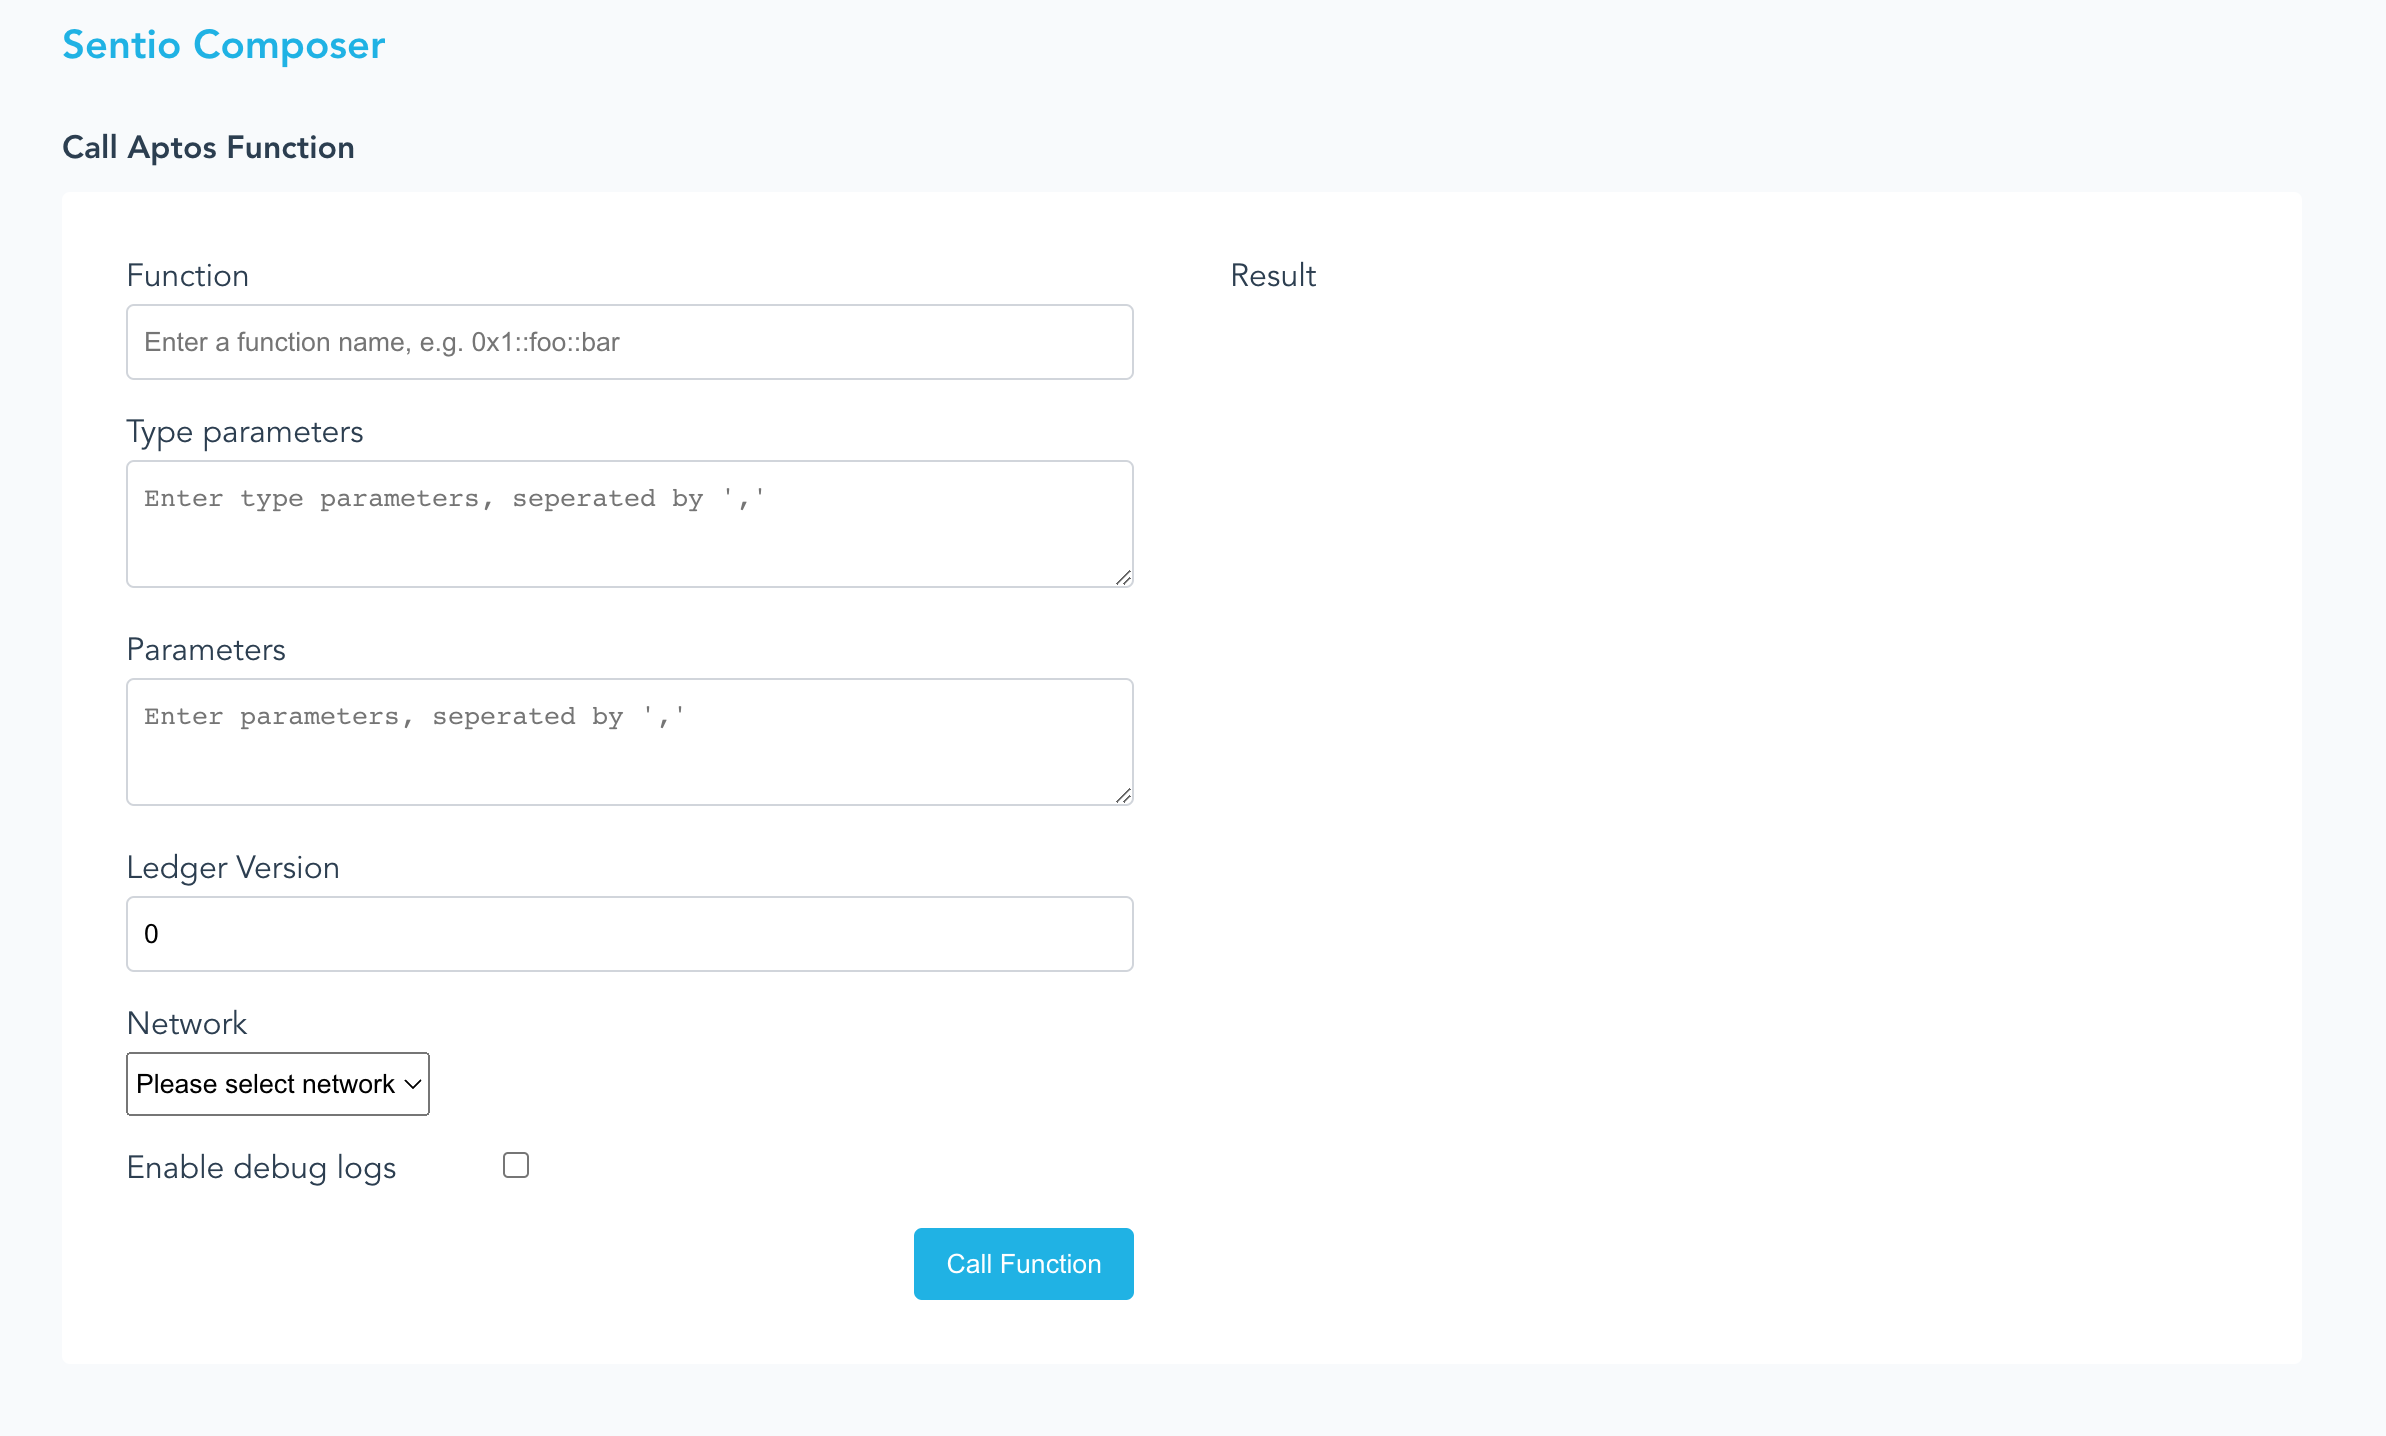
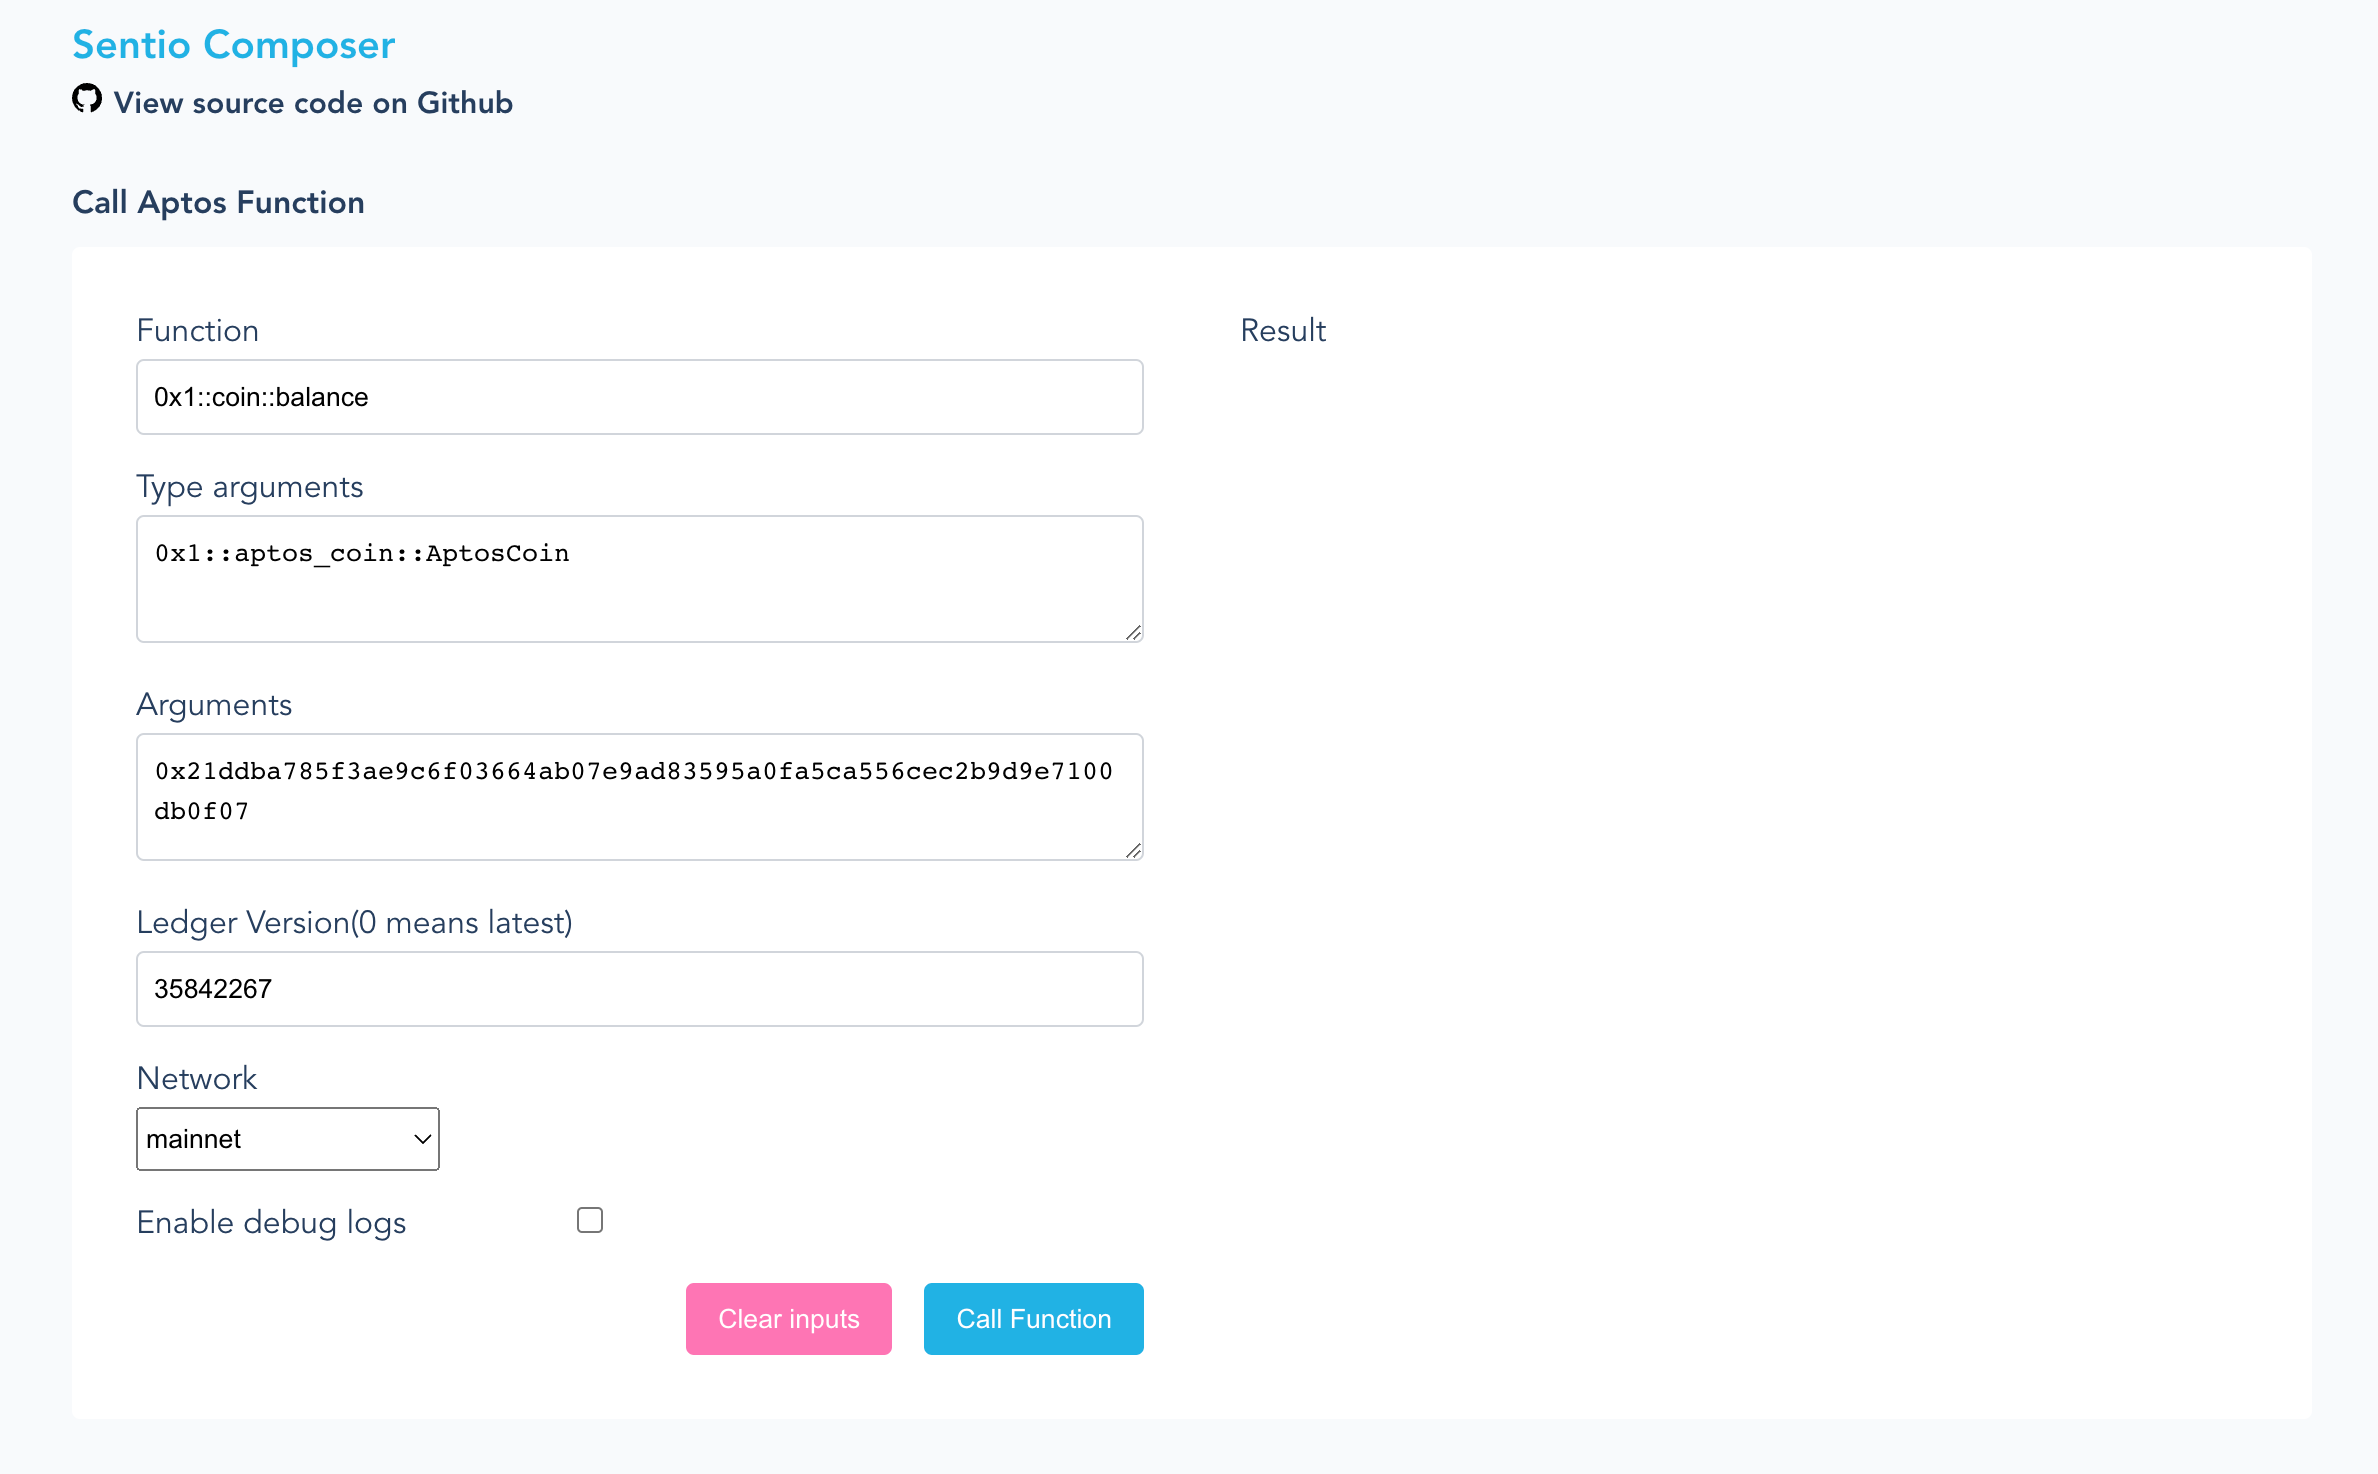
chore(APP): improve web based on feedback (#20)

diff --git a/app/client/src/views/HomeView.vue b/app/client/src/views/HomeView.vue
@@ -1,7 +1,7 @@
 <template>
   <h1>Call Aptos Function</h1>
   <main>
-    <form @submit.prevent="callFunction" class="mb-3">
+    <form @submit.prevent="callFunction" @reset.prevent="clearInput" class="mb-3">
       <div v-if="error" class="alert alert-dismissible alert-warning">
         <button type="button" class="close" data-dismiss="alert">×</button>
         <h4 class="alert-heading">Error!</h4>
@@ -14,40 +14,40 @@
           type="text"
           class="form-control"
           id="function"
-          placeholder="Enter a function name, e.g. 0x1::foo::bar"
+          placeholder="Enter a qualified function name, e.g. 0x1::coin::balance"
           required
         >
       </div>
       <div class="form-group">
-        <label for="type_args">Type parameters</label>
+        <label for="type_args">Type arguments</label>
         <textarea
           v-model="message.type_args"
           type="text"
           style="height: 4rem"
           class="form-control"
           id="type_args"
-          placeholder="Enter type parameters, seperated by ','"
+          placeholder="Enter type arguments, seperated by ','"
         ></textarea>
       </div>
       <div class="form-group">
-        <label for="args">Parameters</label>
+        <label for="args">Arguments</label>
         <textarea
           v-model="message.args"
           type="text"
           class="form-control"
           style="height: 4rem"
           id="args"
-          placeholder="Enter parameters, seperated by ','"
+          placeholder="Enter arguments, seperated by ','"
         ></textarea>
       </div>
       <div class="form-group">
-        <label for="ledger_version">Ledger Version</label>
+        <label for="ledger_version">Ledger Version(0 means latest)</label>
         <input
           v-model="message.ledger_version"
           type="text"
           class="form-control"
           id="ledger_version"
-          placeholder="Enter the ledger version"
+          placeholder="Enter a ledger version. "
         />
       </div>
       <div class="form-group">
@@ -65,11 +65,19 @@
       </div>
       <div style="text-align: left;">
         <label style="display: inline-block;" for="checkbox">Enable debug logs</label>
-        <input style="display: inline-block; margin-left: -12rem;"
+        <input style="display: inline-block; margin-left: -10rem;"
         type="checkbox" id="checkbox" v-model="message.with_logs" />
       </div>
       <div style="text-align: right; margin-top: 1rem">
-        <button type="submit" class="btn btn-primary">Call Function</button>
+        <button
+          style="display: inline-block; margin-right: 1rem;"
+          type="reset"
+          class="btn btn-reset">
+          Clear inputs
+        </button>
+        <button style="display: inline-block;" type="submit" class="btn btn-primary">
+          Call Function
+        </button>
       </div>
     </form>
     <div>
@@ -79,7 +87,7 @@
         readonly
         v-model="result"
         type="text"
-        style="height: 15rem"
+        style="height: 21rem"
         id="result"
       ></textarea>
     </div>
@@ -141,22 +149,33 @@ textarea:focus {
   border-radius: 0.25rem;
   cursor: pointer;
 }
+
+.btn.btn-reset {
+  line-height: inherit;
+  padding: 0.5rem 1rem;
+  background: #FE75B4;
+  border: none;
+  color: white;
+  border-radius: 0.25rem;
+  cursor: pointer;
+}
 </style>
 
 <script lang="ts">
 import { defineComponent } from 'vue';
 import axios from 'axios';
+import { number } from 'joi';
 
 export default defineComponent({
   name: 'sentio-homepage',
   data: () => ({
     error: '',
     message: {
-      func: '',
-      type_args: '',
-      args: '',
-      ledger_version: 0,
-      network: '',
+      func: '0x1::coin::balance',
+      type_args: '0x1::aptos_coin::AptosCoin',
[1 lines of base64/hex data omitted]
+      ledger_version: 35842267,
+      network: 'mainnet',
       with_logs: false,
     },
     isShow: false,
@@ -200,6 +219,16 @@ export default defineComponent({
           }
           this.isShow = true;
         });
+    },
+    clearInput() {
+      this.message = {
+        func: '',
+        type_args: '',
+        args: '',
+        ledger_version: 0,
+        network: '',
+        with_logs: false,
+      };
     },
   },
 });

diff --git a/app/client/src/App.vue b/app/client/src/App.vue
@@ -1,6 +1,7 @@
 <template>
   <nav>
     <router-link to="/">Sentio Composer</router-link>
+    <div><a class="btn" href="https://github.com/sentioxyz/sentio-composer" rel="noopener" target="_blank" aria-label="Star sentio/sentio-composer"><svg viewBox="0 0 16 16" width="15" height="15" class="octicon octicon-mark-github" aria-hidden="true"><path fill-rule="evenodd" d="M8 0C3.58 0 0 3.58 0 8c0 3.54 2.29 6.53 5.47 7.59.4.07.55-.17.55-.38 0-.19-.01-.82-.01-1.49-2.01.37-2.53-.49-2.69-.94-.09-.23-.48-.94-.82-1.13-.28-.15-.68-.52-.01-.53.63-.01 1.08.58 1.23.82.72 1.21 1.87.87 2.33.66.07-.52.28-.87.51-1.07-1.78-.2-3.64-.89-3.64-3.95 0-.87.31-1.59.82-2.15-.08-.2-.36-1.02.08-2.12 0 0 .67-.21 2.2.82.64-.18 1.32-.27 2-.27.68 0 1.36.09 2 .27 1.53-1.04 2.2-.82 2.2-.82.44 1.1.16 1.92.08 2.12.51.56.82 1.27.82 2.15 0 3.07-1.87 3.75-3.65 3.95.29.25.54.73.54 1.48 0 1.07-.01 1.93-.01 2.2 0 .21.15.46.55.38A8.013 8.013 0 0016 8c0-4.42-3.58-8-8-8z"></path></svg>&nbsp;<span style="font-size:4mm">View source code on Github</span></a></div>
   </nav>
   <router-view />
 </template>
@@ -18,7 +19,7 @@ body {
   font-family: Avenir, Helvetica, Arial, sans-serif;
   -webkit-font-smoothing: antialiased;
   -moz-osx-font-smoothing: grayscale;
-  color: #2c3e50;
+  color: #253E5D;
   width: 70rem;
   max-width: 100vw;
   margin: 0 auto;
@@ -31,7 +32,7 @@ nav {
 
 nav a {
   font-weight: bold;
-  color: #2c3e50;
+  color: #253E5D;
   text-decoration: none;
 }
 
